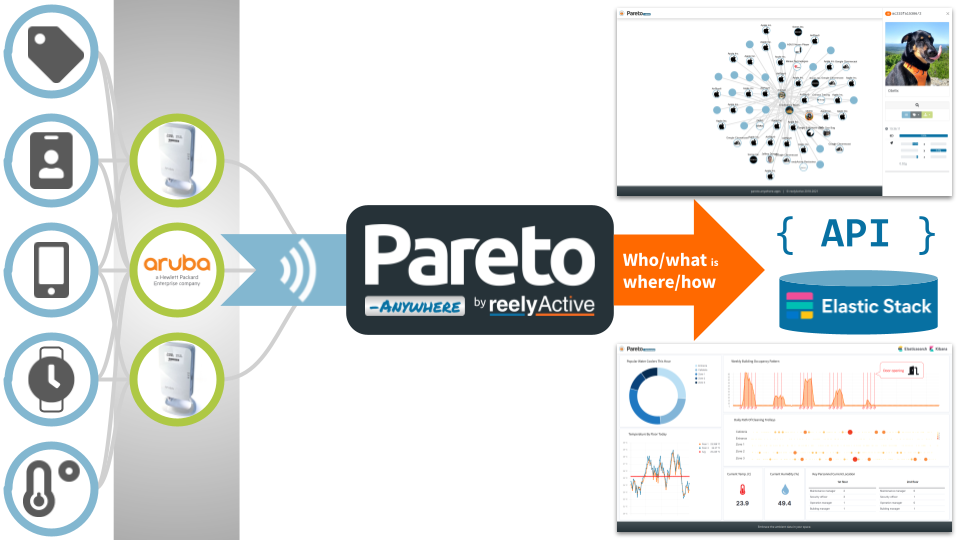
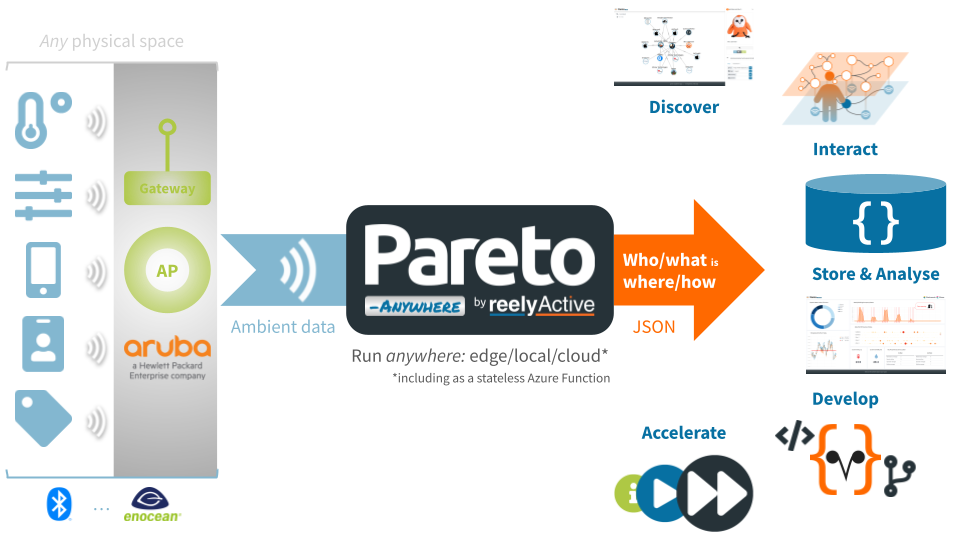
Updated Aruba integration to distinguish WebSocket and IoT Transport options

diff --git a/pareto/anywhere/infrastructure/aruba/index.html b/pareto/anywhere/infrastructure/aruba/index.html
@@ -5,7 +5,7 @@
     <meta name="viewport"
           content="width=device-width, initial-scale=1, shrink-to-fit=no">
     <meta name="description"
-          content="Realise the potential of physical/digital convergence using the network infrastructure that's already in your space.">
+          content="Realise the potential of physical/digital convergence using the Aruba Networks infrastructure that's already in your space.">
     <link rel="stylesheet" href="../../../../style/bootstrappyactive.min.css">
     <link rel="stylesheet" href="../../../../style/heroes.css">
     <title> Aruba Networks & Pareto Anywhere </title>
@@ -15,8 +15,8 @@
       "@context": "https://schema.org", 
       "@type": "WebPage",
       "name": "Aruba Networks & Pareto Anywhere",
-      "description": "Realise the potential of physical/digital convergence using the network infrastructure that's already in your space.",
-      "image": "https://www.reelyactive.com/images/infrastructure-aruba-303h.jpg",
+      "description": "Realise the potential of physical/digital convergence using the Aruba Networks infrastructure that's already in your space.",
+      "image": "https://www.reelyactive.com/images/infrastructure-aruba-architecture.png",
       "creator": {
         "@type": "Organization",
         "url": "https://www.reelyactive.com"
@@ -405,64 +405,124 @@
       </div>
       <div class="row justify-content-center">
         <div class="col-sm-12 col-md-10 col-lg-8 col-xl-6">
+          <!-- Overview -->
+          <h3 class="text-center mt-5"> <b>Pareto Anywhere</b> is the <span class="text-success">open source middleware</span> that unlocks the value of the ambient data collected by your <span class="text-primary">Aruba infrastructure</span>. </h3>
+          <div class="card-group text-center my-3">
+            <div class="card border-0 rounded-3 hover-shadow">
+              <div class="card-body">
+                <h3 class="card-title"> Leap into action </h3>
+                <p class="card-text mt-3">
+                  <i class="fas fa-check text-success"></i>&nbsp;
+                  Achieve a working demo in an instant.
+                </p>
+                <p class="card-text small text-start"> Enjoy the familiarity of working with web-standard interfaces: <b>Pareto Anywhere</b> abstracts away the technological challenges of implementation. </p>
+              </div>
+            </div>
+            <div class="card border-0 rounded-3 hover-shadow">
+              <div class="card-body">
+                <h3 class="card-title"> Forge ahead freely </h3>
+                <p class="card-text mt-3">
+                  <i class="fas fa-check text-success"></i>&nbsp;
+                  Advance free from artificial constraints.
+                </p>
+                <p class="card-text small text-start"> Enjoy progressing continuously at your own pace: <b>Pareto Anywhere</b> enshrines permissionless innovation by design, evolving to meet your ever-changing needs. </p>
+              </div>
+            </div>
+          </div>
           <!-- Architecture -->
           <img src="../../../../images/infrastructure-aruba-architecture.png"
-               class="img-fluid my-5" alt="Elastic Stack & Pareto Anywhere">
-          <p class="lead mt-5"> Aruba access points can forward ambient Bluetooth Low Energy packets to Pareto Anywhere in order to make the physical spaces they cover context-aware for any application. </p>
-          <p class="text-muted text-end"> <small> This functionality is available as of Aruba Instant version 8.8 </small> </p>
-          <img src="../../../../images/infrastructure-aruba-header.jpg"
-               class="img-fluid" alt="Aruba APs and Pareto Anywhere">
-          <div class="row text-center text-md-start my-5">
-            <div class="col-md-6">
-              <h3> Certified Integration </h3>
-              <p> reelyActive is an Aruba Technology Partner </p>
-              <a href="https://www.arubanetworks.com/partners/technology-partners/partner-finder/#keyword=reelyactive"
-                 class="btn btn-outline-primary mb-4" target="_blank">
-                <i class="fas fa-external-link-alt"></i> Learn more
-              </a>
-              <a href="https://www.arubanetworks.com/products/wireless/access-points/"
-                 class="btn btn-outline-primary mb-4" target="_blank">
-                <i class="fas fa-external-link-alt"></i> Aruba APs
-              </a>
+               class="img-fluid my-5" alt="Aruba Networks & Pareto Anywhere">
+          <!-- Ambient data in, standard data out -->
+          <h3 class="text-center mt-5"> <b>Pareto Anywhere</b> provides a <span class="text-secondary">single standard stream</span> of real-time data, <span class="text-info">regardless of the underlying devices & technologies.</span> </h3>
+          <div class="card-group mt-3 mb-5">
+            <div class="card border-0 rounded-3 hover-shadow">
+              <div class="card-body">
+                <h3 class="card-title"> Ambient data in&hellip; </h3>
+                <p class="card-text"> <b class="text-dark">Pareto Anywhere</b> collects <b class="text-ambient"><i class="fas fa-wifi"></i> ambient data</b> from the radio-identifiable devices occupying a physical space via the Aruba infrastructure <em>already present</em> in that space. </p>
+              </div>
+              <div class="card-footer bg-ambient bg-gradient border-0">
+                <a href="../../../../ambient-data/#content"
+                   class="btn btn-outline-light" role="button">
+                  <i class="fas fa-wifi"></i> Ambient data
+                </a>
+              </div>
             </div>
-            <div class="col-md-6">
-              <h3> Open Source </h3>
-              <p> Pareto Anywhere is our open source middleware. </p>
-              <a href="../../#content" class="btn btn-outline-primary">
+            <div class="card text-end border-0 rounded-3 hover-shadow">
+              <div class="card-body">
+                <h3 class="card-title"> &hellip;Hyperlocal Context out </h3>
+                <p class="card-text"> <b class="text-dark">Pareto Anywhere</b> serves a real-time stream of <b class="text-secondary">who/what</b> <small>is</small> <b class="text-secondary">where/how</b> as web-standard machine-readable data: <em>Hyperlocal Context.</em> </p>
+              </div>
+              <div class="card-footer bg-secondary bg-gradient border-0">
+                <a href="../../../../context/#content"
+                   class="btn btn-outline-light" role="button">
+                  <i class="fas fa-share-alt"></i> Hyperlocal Context
+                </a>
+              </div>
+            </div>
+          </div>
+          <div id="carouselTransport" class="carousel slide carousel-fade mt-5"
+               data-bs-ride="carousel" data-bs-interval="2400">
+            <div class="carousel-inner">
+              <div class="carousel-item active">
+                <img src="../../../../images/infrastructure-aruba-transport-websocket.jpg"
+                     class="d-block w-100" alt="Aruba WebSocket">
+              </div>
+              <div class="carousel-item">
+                <img src="../../../../images/infrastructure-aruba-transport-iot.jpg" class="d-block w-100" alt="Aruba IoT Transport">
+              </div>
+            </div>
+          </div>
+          <h3 class="text-center"> One infrastructure, two integration options </h3>
+          <div class="card-group mt-3">
+            <div class="card hover-shadow">
+              <h4 class="card-header text-center bg-dark text-white border-0">
                 Pareto Anywhere
-              </a>
+              </h4>
+              <div class="card-body">
+                <p class="card-text"> Select the <b class="text-success">WebSocket</b> transport option to forward data to a <b class="text-dark">Pareto Anywhere</b> instance running on-prem or in your cloud. </p>
+              </div>
+              <div class="card-footer text-center bg-white">
+                <a href="https://reelyactive.github.io/diy/aruba-instant-config/"
+                   target="_blank" class="btn btn-outline-primary"
+                   role="button">
+                  <i class="fas fa-external-link-alt"></i> Tutorial
+                </a>
+              </div>
+            </div>
+            <div class="card hover-shadow">
+              <h4 class="card-header text-center bg-dark text-white border-0">
+                Pareto Anywhere for Azure
+              </h4>
+              <div class="card-body">
+                <p class="card-text"> Select the <b class="text-success">IoT Transport</b> option to easily and securely forward data to Azure IoT Hub, from which <b class="text-dark">Pareto Anywhere for Azure</b> will consume the real-time data, running as a stateless Azure Function. </p>
+              </div>
+              <div class="card-footer text-center bg-white">
+                <a href="../../integrations/azure/#content"
+                   class="btn btn-outline-primary" role="button">
+                  Learn more
+                </a>
+              </div>
             </div>
           </div>
         </div>
       </div>
-      <!-- Parc -->
-      <div class="row justify-content-center bg-primary text-white">
+      <!-- Aruba Technology Partner -->
+      <div class="row justify-content-center bg-primary text-white text-center my-5">
         <div class="col-sm-12 col-md-10 col-lg-8 col-xl-6">
-          <h3 class="text-uppercase text-center mt-5">
-            Aruba @ Parc
-          </h3>
-          <div class="row my-5">
-            <div class="col-md-8 mb-4">
-              <p> We use Aruba access points at our <b>reelyActive Parc</b> living lab for both WiFi connectivity <em>and</em> to relay ambient data to Pareto Anywhere, with which, together with the Elastic Stack, we innovate every day. </p>
-              <p class="text-center">
-                <a href="../../../../parc/#content"
-                   class="btn btn-outline-light"> reelyActive Parc </a>
-                <a href="../../integrations/elastic-stack/#content"
-                   class="btn btn-outline-light"> Elastic Stack </a>
-              </p>
-            </div>
-            <div class="col-md-4">
-              <img src="../../../../images/infrastructure-aruba-parc.jpg"
-                   class="img-fluid hover-shadow" alt="Aruba AP at Parc">
-            </div>
-          </div>
+              <h3 class="mt-4"> Certified Integration </h3>
+              <p> reelyActive is an Aruba Technology Partner </p>
+              <a href="https://www.arubanetworks.com/partners/technology-partners/partner-finder/#keyword=reelyactive"
+                 class="btn btn-outline-light mb-4" target="_blank">
+                <i class="fas fa-external-link-alt"></i> Learn more
+              </a>
+              <a href="https://www.arubanetworks.com/products/wireless/access-points/"
+                 class="btn btn-outline-light mb-4" target="_blank">
+                <i class="fas fa-external-link-alt"></i> Aruba APs
+              </a>
         </div>
       </div>
       <div class="row justify-content-center">
         <div class="col-sm-12 col-md-10 col-lg-8 col-xl-6">
-          <div class="text-center text-muted display-6 animate-breathing mt-4">
-            &vellip;
-          </div>
           <!----- Developers ----->
           <div class="card hover-shadow rounded my-4">
             <div class="row g-0">
